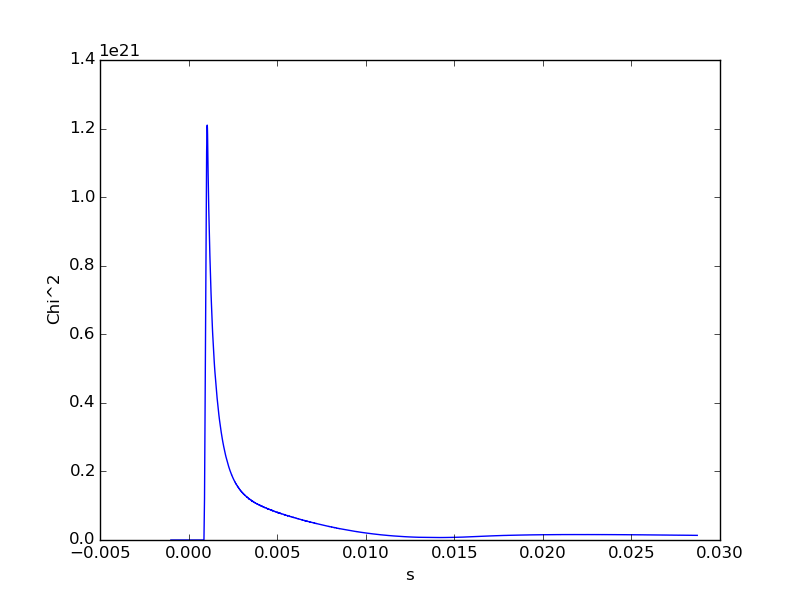
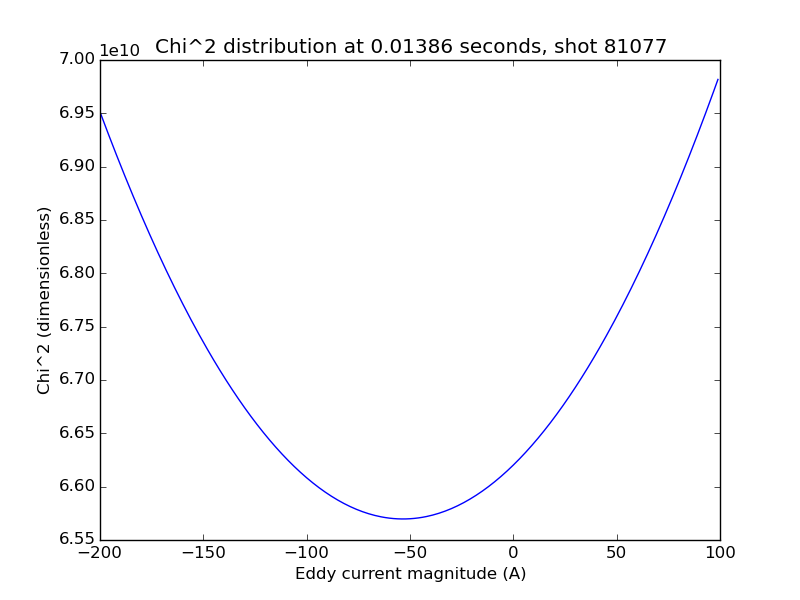
create chi-squared distribution

diff --git a/fit_eigenmodes.py b/fit_eigenmodes.py
@@ -14,69 +14,61 @@ import numpy as np
 shot = 81077
 vf_time, vf_signal = tokamak.vf_data(shot)
 sensor_groups = []
+
 TA_suffixes = ['S1P', 'S2P', 'S3P', 'S4P']
-sensor_groups += [[s for s in tokamak.sensors_TA() if n in s.name] for n in TA_suffixes]
+sensor_groups += [[s for s in tokamak.sensors('TA') if n in s.name] for n in TA_suffixes]
+
 FB_suffixes = ['S1P', 'S2P', 'S3P', 'S4P', 'S1R', 'S2R', 'S3R', 'S4R', 'S4R']
-sensor_groups += [[s for s in tokamak.sensors_FB() if n in s.name] for n in FB_suffixes]
+sensor_groups += [[s for s in tokamak.sensors('FB') if n in s.name] for n in FB_suffixes]
+
 PA_suffixes = ['S01R', 'S02R', 'S03R', 'S04R', 'S05R', 'S06R', 
 'S07R', 'S08R', 'S09R', 'S10R', 'S11R', 'S12R', 'S13R', 'S14R', 'S15R', 'S16R', 'S17R', 'S18R',
 'S19R', 'S20R', 'S21R', 'S01P', 'S02P', 'S03P', 'S04P', 'S05P', 'S06P', 'S07P', 'S08P', 'S09P', 
 'S10P', 'S11P', 'S12P', 'S13P', 'S14P', 'S15P', 'S16P', 'S17P', 'S18P', 'S19P', 'S20P', 'S21P']
-sensor_groups += [[s for s in tokamak.sensors_PA() if n in s.name] for n in PA_suffixes]
+sensor_groups += [[s for s in tokamak.sensors('PA') if n in s.name] for n in PA_suffixes]
 
 filaments = eigenmodes.ss_filaments(60)
 
 (sensor_time, sensor_signal) = tokamak.get_sensor_time_signal(shot, sensor_groups[0][0].name)
-chi_squares = np.zeros(len(sensor_time))
+I_eddy_mags = xrange(-int(2e2), int(1e2), int(1))
+chi_squares = np.zeros(len(I_eddy_mags))
+
 for sensors in sensor_groups:
     if len(sensors) == 0: continue
- 
+
     signals = tokamak.sensor_signal_dict(shot, sensors, None, None, False)
     (sensor_time, sensor_signal) = tokamak.get_sensor_time_signal(shot, sensors[0].name)
- 
+
     for i, sensor in enumerate(sensors):
-         print sensor.name
-         sensor_signal = signals[sensor.name]
-     
-         # Radial TA sensors point inwards
-         if 'TA' in sensor.name: 
-             if 'R' in sensor.name:
-                 sensor.n_r = -1.0
-     
-         # Calculate field
+        print sensor.name
+        sensor_signal = signals[sensor.name]
 
-         field_vf = fields.B_VF(vf_signal, tokamak.VFR, tokamak.VFZ, sensor)
-         sensor.vf = field_vf
-     
-         # Calculate magnitude eddy current needed to create B_diff
-         B_diff = field_vf - sensor_signal
-         B_eddy1 = 0
-         for f in filaments:
-             greens = fields.greens_function(f.r, f.z-sensor.z, sensor.r,
-                                             sensor.n_r, sensor.n_z)
-             B_eddy1 += f.current_1*greens
-         I_mag = [B/B_eddy1 for B in B_diff]
-         sensor.eddy = I_mag
+        field_vf = fields.B_VF(vf_signal, tokamak.VFR, tokamak.VFZ, sensor)
+        sensor.vf = field_vf
 
-    group_signals = [signals[s.name] for s in sensors] 
+    G_eig_1 = 0
+    for f in filaments:
+        G_eig_1 += f.current_1*fields.greens_function(f.r, f.z-sensors[0].z, sensors[0].r,
+                                                      sensors[0].n_r, sensors[0].n_z)
+
+    group_signals = [signals[s.name] for s in sensors]
     for i, time in enumerate(sensor_time):
-        measurement_sum = 0
-        for signal in group_signals: 
-            measurement_sum += signal[time]
-        measure_avg = measurement_sum/float(len(group_signals))
-        measure_uncertainty = np.std([s[time] for s in group_signals])
-        vf = sensors[0].vf
-        eddy_sum = 0
-        for sensor in sensors: 
-            eddy_sum += sensor.eddy[i]
-        eddy_avg = eddy_sum/float(len(sensors))
-
-        if measure_uncertainty != 0:
-            chi_squares[i] += (vf[i]+eddy_avg-measure_avg)**2/measure_uncertainty**2
+        if i != len(sensor_time)/2: continue
+        for j, I_eddy_mag in enumerate(I_eddy_mags):
+            vf = sensors[0].vf
+            measurement_sum = 0
+            for signal in group_signals: 
+                measurement_sum += signal[time]
+            measure_avg = measurement_sum/float(len(group_signals))
+            measure_stddev = np.std([s[time] for s in group_signals])
+        
+            if measure_stddev != 0:
+                chi_squares[j] += (vf[i]+I_eddy_mag*G_eig_1-measure_avg)**2/measure_stddev**2
 
 plt.figure()
-plt.xlabel('s')
-plt.ylabel('Chi^2')
-plt.plot(sensor_time, chi_squares)
+plt.title('Chi^2 distribution at %.5f seconds, shot 81077' % sensor_time[len(sensor_time)/2])
+plt.xlabel('Eddy current magnitude (A)')
+plt.ylabel('Chi^2 (dimensionless)')
+plt.plot(I_eddy_mags, chi_squares)
 plt.savefig(os.getcwd() + '/output/chi_squares.png')
 

diff --git a/tokamak.py b/tokamak.py
@@ -28,7 +28,9 @@ class Sensor:
         self.y    = float(y)
         self.z    = float(z)
         self.r    = math.sqrt(float(x)**2+float(y)**2)
-        self.n_r  = math.sqrt(float(n_x)**2+float(n_y)**2)
+        # Radial TA sensors point inwards
+        if 'TA' in name: self.n_r = -1.0
+        else: self.n_r  = math.sqrt(float(n_x)**2+float(n_y)**2)
         self.n_z  = float(n_z)
         self.eddy = []
         self.vf   = []
@@ -54,25 +56,9 @@ def sensors_unique():
     return read_sensor_data('./resources/sensors_unique.csv')
 
 
-def sensors_PA(number):
+def sensors(group):
     return [sensor for sensor 
-            in read_sensor_data('./resources/sensors.csv')
-            if 'PA' + str(number) in sensor.name]
-
-
-def sensors_PA():
-    return [sensor for sensor 
-            in read_sensor_data('./resources/sensors.csv') if 'PA' in sensor.name]
-
-
-def sensors_TA():
-    return [sensor for sensor in read_sensor_data('./resources/sensors.csv')
-            if 'TA' in sensor.name]
-    
-
-def sensors_FB():
-    return [sensor for sensor in read_sensor_data('./resources/sensors.csv')
-            if 'FB' in sensor.name]
+            in read_sensor_data('./resources/sensors.csv') if group in sensor.name]
 
 
 def sensors_all():
@@ -114,32 +100,37 @@ def vf_data(shot_num):
 
 
 def sensor_signal_dict(shot, sensors, vf_signal, oh_signal, subtract):
-    if subtract:
-        outfile  = 'output/signals%dsubtracted.p' % shot
-    else:
-        outfile  = 'output/signals%d.p' % shot
+    global signal_dict
 
-    if os.path.isfile(outfile):
-        signal_dict = pickle.load(open(outfile, 'rb'))
-        print 'DANGER: loaded %s from disk.' % outfile 
+    if subtract:
+        outfile = 'output/signals%dsubtracted.p' % shot
     else:
-        print 'Indexing and cleaning up sensor signals.'
-        signal_dict = dict()
-        for i, sensor in enumerate(sensors):
-            (sensor_time, sensor_signal) = get_sensor_time_signal(shot, sensor.name)
-            # Fix length of integrated data
-            (sensor_time, sensor_signal) = data_manipulation.clip(sensor_time, sensor_signal) 
-            if subtract:
-                coils_signal = fields.B_VF(vf_signal, VFR, VFZ, sensor)[:-1] \
-                               + fields.OH_field(oh_signal, OHR, OHZ, sensor)
-                sensor_signal -= coils_signal[:len(sensor_signal)]
-            signal_dict[sensor.name] = sensor_signal
-            progress = i/float(len(sensors))*100
-            sys.stdout.write('\r%.2f%%' % progress)
-            sys.stdout.flush()
-        print '\nSensors used:', len(sensors)
-        pickle.dump(signal_dict, open(outfile, 'wb'))
-        print 'Created ' + outfile
+        outfile = 'output/signals%d.p' % shot
+    
+    try:
+        return signal_dict
+    except NameError:
+        if os.path.isfile(outfile):
+            signal_dict = pickle.load(open(outfile, 'rb'))
+            print 'DANGER: loaded %s from disk.' % outfile 
+        else:
+            signal_dict = {}
+            print 'Indexing and cleaning up sensor signals.'
+            for i, sensor in enumerate(sensors):
+                (sensor_time, sensor_signal) = get_sensor_time_signal(shot, sensor.name)
+                # Fix length of integrated data
+                (sensor_time, sensor_signal) = data_manipulation.clip(sensor_time, sensor_signal) 
+                if subtract:
+                    coils_signal = fields.B_VF(vf_signal, VFR, VFZ, sensor)[:-1] \
+                                   + fields.OH_field(oh_signal, OHR, OHZ, sensor)
+                    sensor_signal -= coils_signal[:len(sensor_signal)]
+                signal_dict[sensor.name] = sensor_signal
+                progress = i/float(len(sensors))*100
+                sys.stdout.write('\r%.2f%%' % progress)
+                sys.stdout.flush()
+            print '\nSensors used:', len(sensors)
+            pickle.dump(signal_dict, open(outfile, 'wb'))
+            print 'Created ' + outfile
     return signal_dict
     
 

diff --git a/README.md b/README.md
@@ -23,7 +23,6 @@
 ### Chi-squared distribution
 
 ![](resources/chi_squared.png)
-![](resources/dchi_squared.png)
 
 
 ### Eddy current magnitudes 
